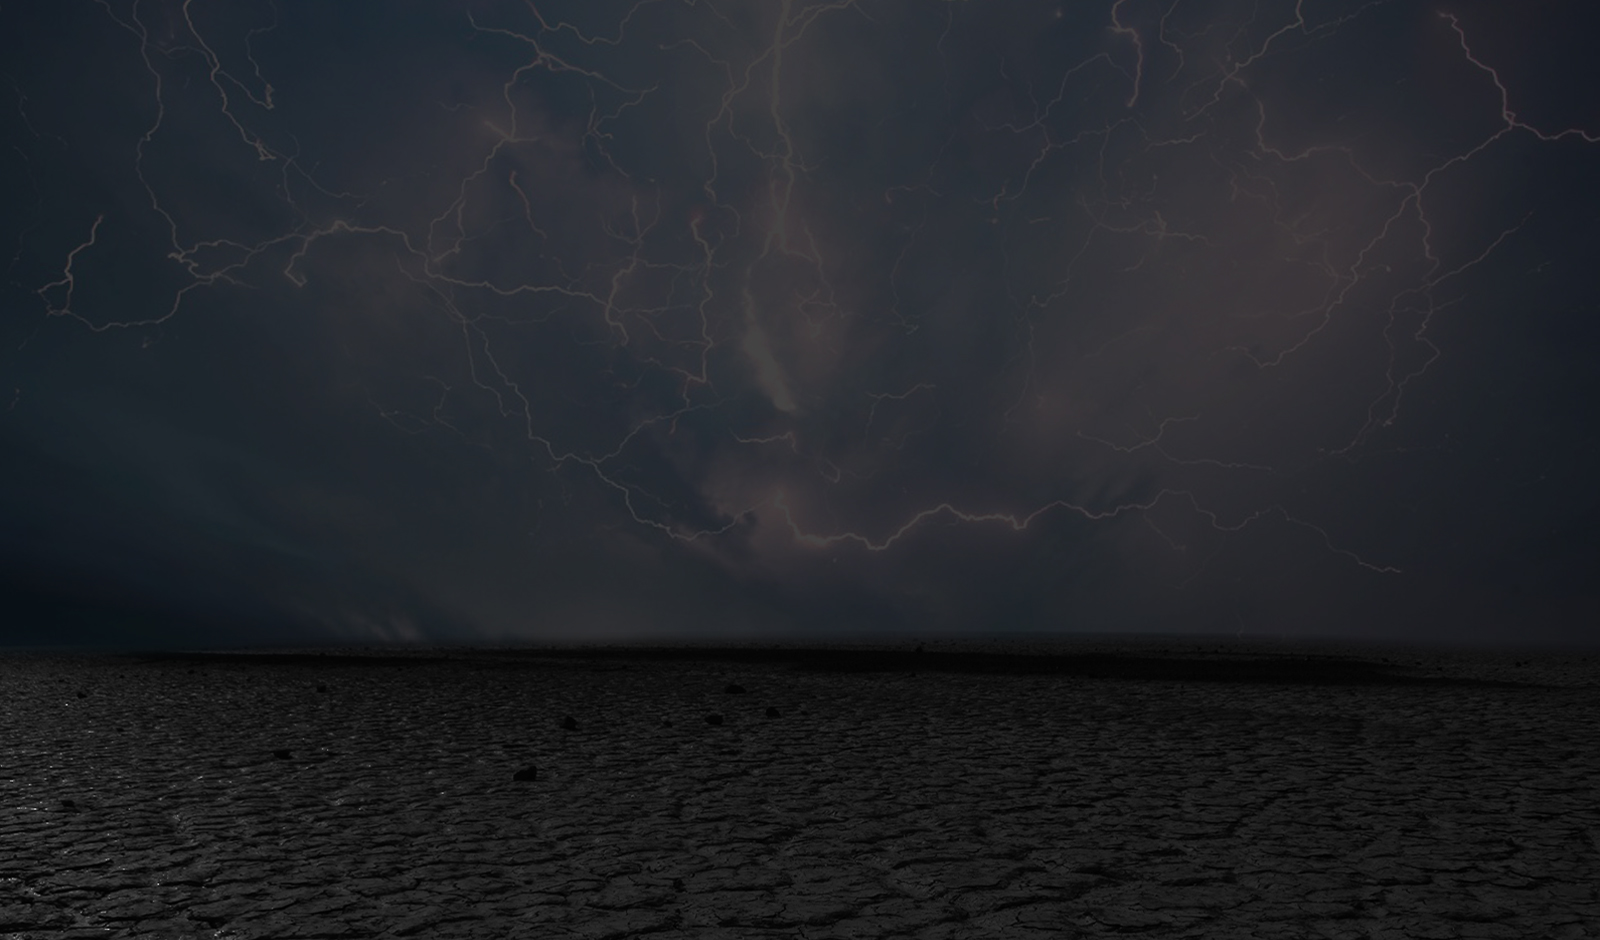
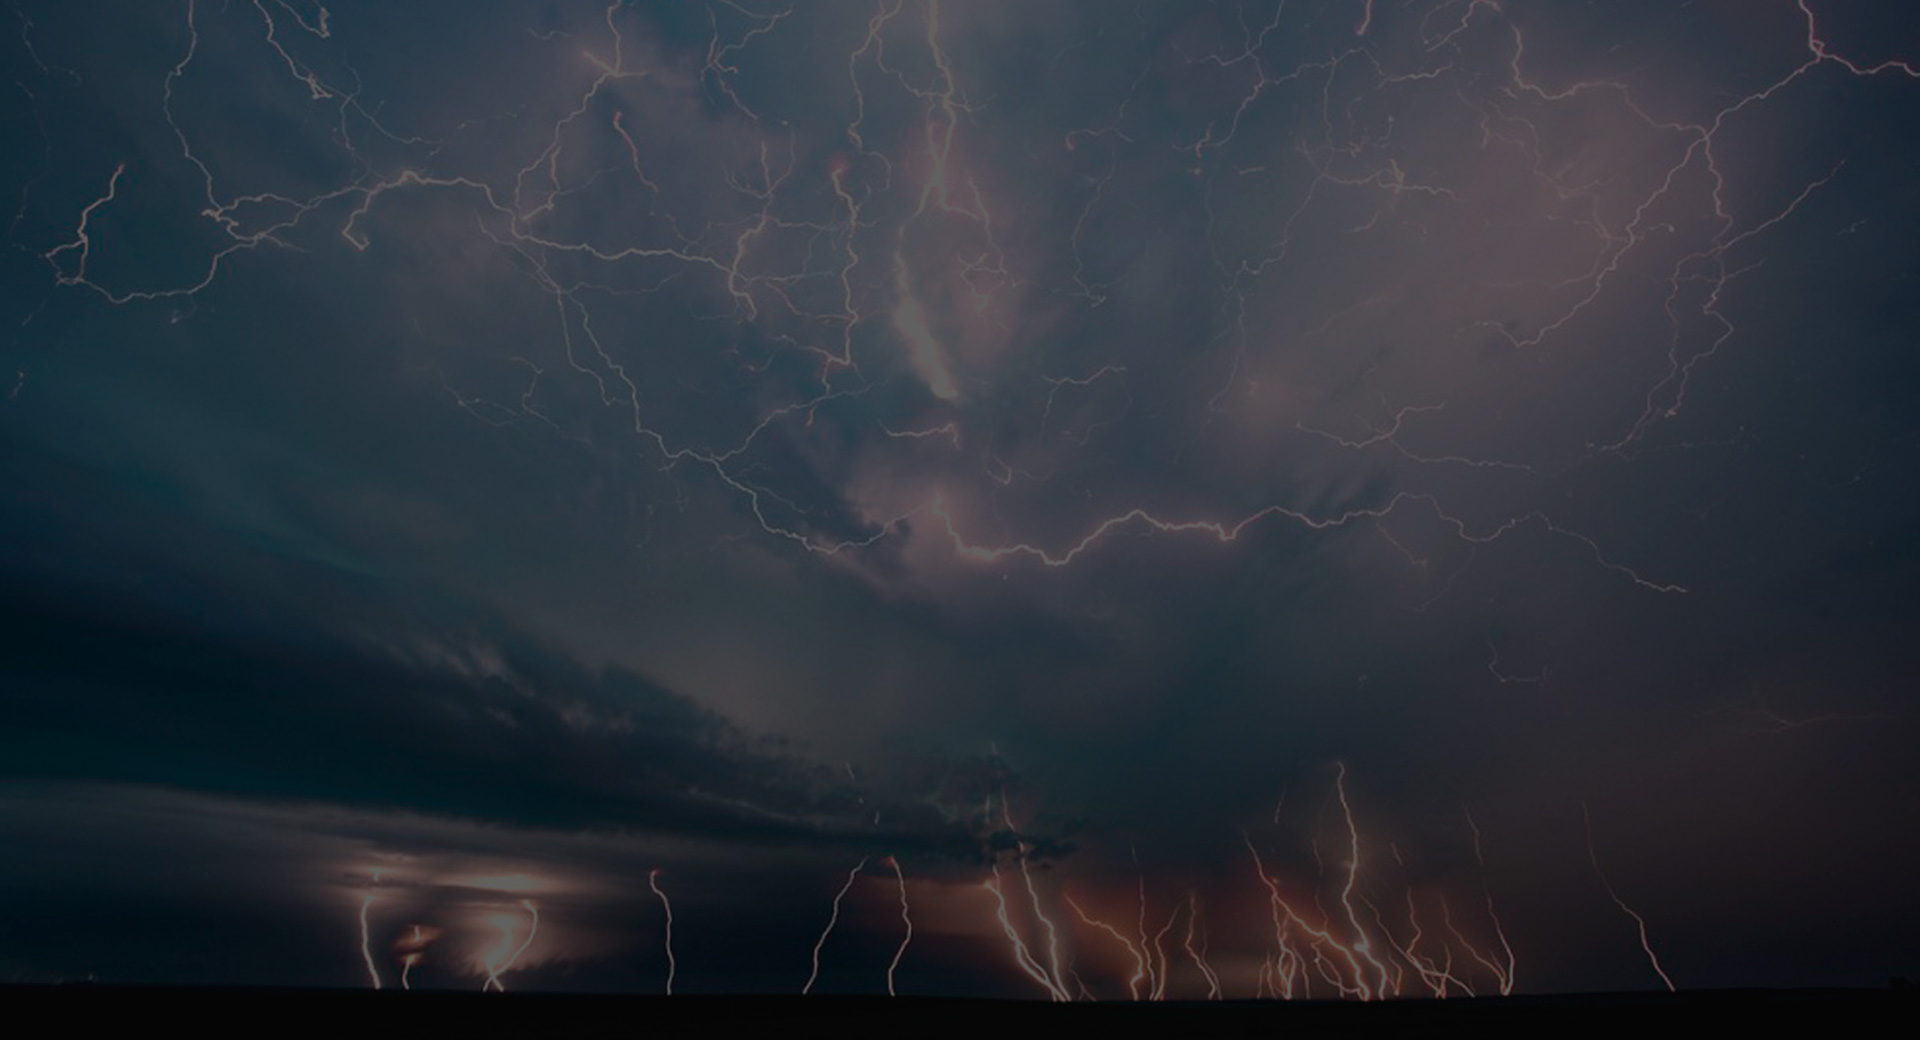
no message

diff --git a/css/land.css b/css/land.css
@@ -196,6 +196,7 @@ input:-moz-placeholder {
 		position: relative;
 		width: 100%;
 		height: 750px;	
+		background-image: url('../i/b-1/back.jpg');
 	}
 		.b-video{
 			display: none;

diff --git a/protected/views/land/Index.php b/protected/views/land/Index.php
@@ -43,9 +43,9 @@
     </ul>
     <div class="b b-1">
         <div class="b-video-cont">
-            <video class="b-video" autoplay loop muted id="bgvideo">
+           <!--  <video class="b-video" autoplay loop muted id="bgvideo">
                 <source src="<?php echo Yii::app()->request->baseUrl;?>/video/5.mp4" type="video/mp4"></source>
-            </video>
+            </video> -->
         </div>
         <div class="b-back">
             <div class="b-block">
@@ -174,6 +174,8 @@
             <? endforeach; ?>
             <option value="другое">Другое</option>
             </select>
+            <img src="<?=$mark->car?>">
+            <img src="<?=$mark->logo?>">
         <? endforeach; ?>
         <?php foreach ($model as $mark): ?>
             <?php foreach ($mark->models as $car_model): ?> 
